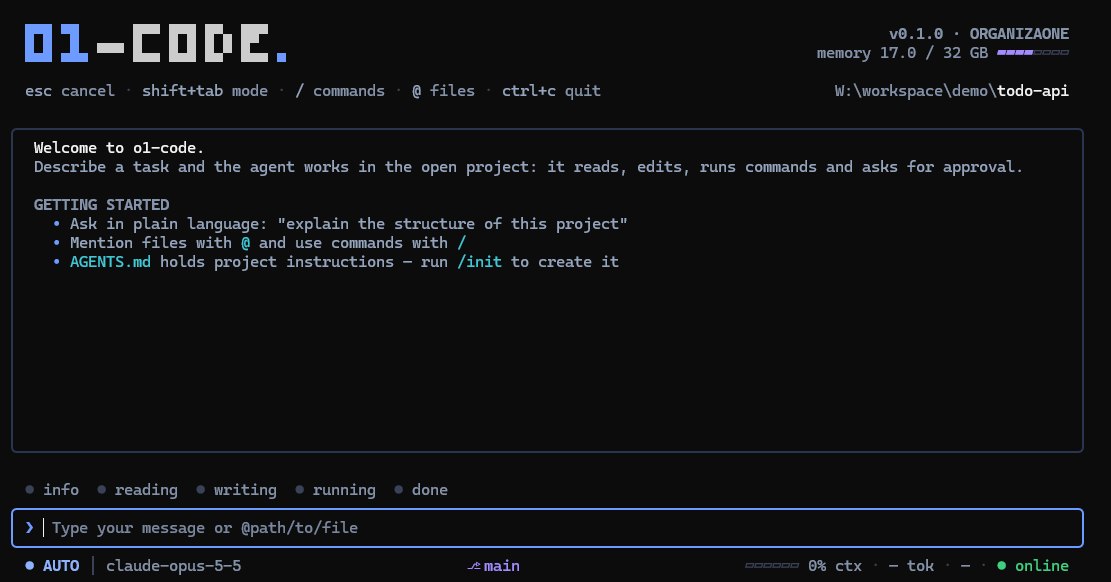
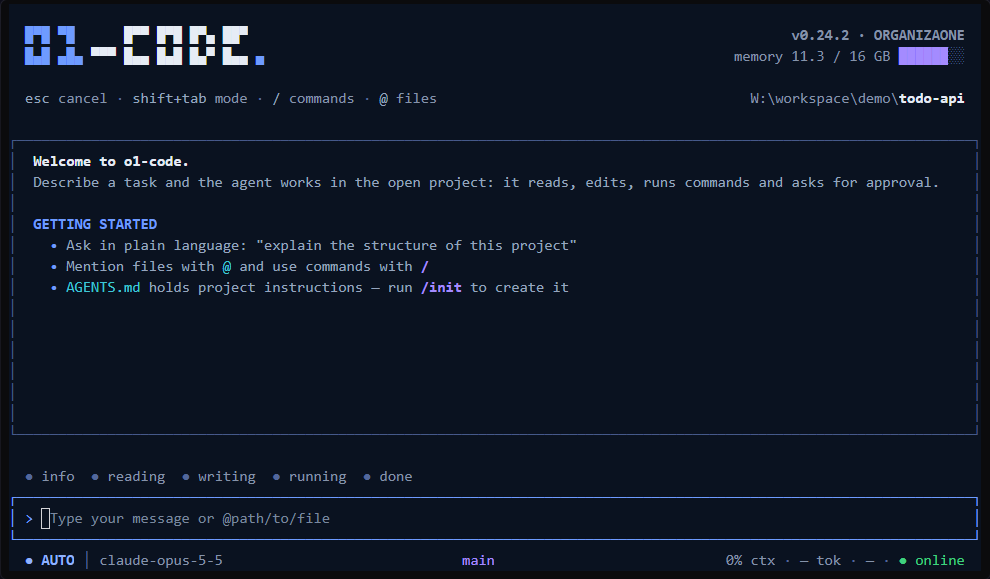
fix(telemetry): count hosted sessions at their first prompt (#149)
Released as 0.24.3.

A process that hosts sessions over ACP, an editor or a child of the
serve daemon, counted a session for its bootstrap and MCP discovery
configurations and for every session it opened, used or not. Its
sessions are now counted at their first prompt.

The Web Shell gains the alias and the Chinese text of the error reports
setting, and the settings dialog lists it after usage statistics.

The interface captures under docs/images are removed, with their
references, and the README start screen is captured again from 0.24.2.
The roadmap drops the application update and Windows release validation
sections, both validated, and records the telemetry gaps that remain.

diff --git a/packages/core/src/telemetry/product/product-telemetry.test.ts b/packages/core/src/telemetry/product/product-telemetry.test.ts
@@ -84,7 +84,7 @@ describe('product telemetry', () => {
     startProductTelemetry(config, { manual: true, install: () => 'npm' });
     const usage = productUsage(config)!;
     usage.session(config);
-    usage.prompt();
+    usage.prompt(config);
     usage.toolCall('read_file', 'native');
     usage.toolCall('mcp__server__secret_tool', 'mcp');
     usage.slashCommand('model', true);
@@ -126,7 +126,7 @@ describe('product telemetry', () => {
   it('sends usage at most hourly across sessions', async () => {
     const config = fakeConfig();
     startProductTelemetry(config, { manual: true });
-    productUsage(config)!.prompt();
+    productUsage(config)!.prompt(config);
     const now = new Date();
     await sendProductTelemetry(now);
     await sendProductTelemetry(new Date(now.getTime() + 30 * 60 * 1000));
@@ -139,7 +139,7 @@ describe('product telemetry', () => {
     fetchMock.mockRejectedValueOnce(new Error('offline'));
     const config = fakeConfig();
     startProductTelemetry(config, { manual: true });
-    productUsage(config)!.prompt();
+    productUsage(config)!.prompt(config);
     await sendProductTelemetry();
     await sendProductTelemetry();
     expect(bodies<UsagePayload>('usage').at(-1)!.days[0]!.prompts).toBe(1);
@@ -153,7 +153,7 @@ describe('product telemetry', () => {
     undiciFetch.mockResolvedValueOnce(new Response(null, { status: 204 }));
     const config = fakeConfig({ errors: false });
     startProductTelemetry(config, { manual: true });
-    productUsage(config)!.prompt();
+    productUsage(config)!.prompt(config);
     await sendProductTelemetry();
 
     expect(undiciFetch).toHaveBeenCalledWith(
@@ -190,7 +190,7 @@ describe('product telemetry', () => {
       }
       const config = tunnelConfig();
       startProductTelemetry(config, { manual: true });
-      productUsage(config)!.prompt();
+      productUsage(config)!.prompt(config);
       await sendProductTelemetry();
       return fetchMock.mock.calls.map(([url, init]) => ({
         url: String(url),
@@ -225,11 +225,38 @@ describe('product telemetry', () => {
     });
   });
 
+  it('counts the sessions of an ACP host at their first prompt', async () => {
+    const hosted = (sessionId: string): Config =>
+      ({
+        ...fakeConfig({ errors: false }),
+        isInteractive: () => false,
+        getExperimentalZedIntegration: () => true,
+        getSessionId: () => sessionId,
+      }) as unknown as Config;
+    const bootstrap = hosted('bootstrap');
+    startProductTelemetry(bootstrap, { manual: true });
+    const usage = productUsage(bootstrap)!;
+    // Configurations that hold no conversation, and a session nobody used.
+    usage.session(bootstrap);
+    usage.session(hosted('workspace-mcp-discovery'));
+    usage.session(hosted('opened-only'));
+    usage.prompt(hosted('first'));
+    usage.prompt(hosted('first'));
+    usage.prompt(hosted('second'));
+    await sendProductTelemetry();
+
+    const [payload] = bodies<UsagePayload>('usage');
+    expect(payload!.days[0]).toMatchObject({
+      sessions: { interactive: 0, headless: 0, sdk: 2 },
+      prompts: 3,
+    });
+  });
+
   it('does not retry an ordinary network failure', async () => {
     fetchMock.mockRejectedValueOnce(new Error('offline'));
     const config = fakeConfig({ errors: false });
     startProductTelemetry(config, { manual: true });
-    productUsage(config)!.prompt();
+    productUsage(config)!.prompt(config);
     await sendProductTelemetry();
     expect(undiciFetch).not.toHaveBeenCalled();
   });

diff --git a/packages/core/src/telemetry/product/product-telemetry.ts b/packages/core/src/telemetry/product/product-telemetry.ts
@@ -211,19 +211,42 @@ export function productUsage(config: Config): ProductUsageRecorder | undefined {
   return recorder;
 }
 
+/** Session IDs remembered per process, so a long-lived host stays bounded. */
+const MAX_HOSTED_SESSIONS = 10_000;
+
 class ProductUsageRecorder {
+  /** Sessions of an ACP host already counted, by ID. */
+  private readonly hostedSessions = new Set<string>();
+
   session(config: Config): void {
+    // An ACP host (an editor, `serve`) initializes configurations that hold
+    // no conversation, and opens sessions before anyone uses them; its
+    // sessions are counted at their first prompt instead.
+    if (config.getExperimentalZedIntegration()) return;
     const mode: SessionMode = config.isInteractive()
       ? 'interactive'
-      : config.getInputFormat() === 'stream-json' ||
-          config.getExperimentalZedIntegration()
+      : config.getInputFormat() === 'stream-json'
         ? 'sdk'
         : 'headless';
     state?.ledger.session(mode);
   }
 
-  prompt(): void {
+  prompt(config: Config): void {
+    if (config.getExperimentalZedIntegration()) {
+      const sessionId = config.getSessionId();
+      if (
+        !this.hostedSessions.has(sessionId) &&
+        this.hostedSessions.size < MAX_HOSTED_SESSIONS
+      ) {
+        this.hostedSessions.add(sessionId);
+        state?.ledger.session('sdk');
+      }
+    }
     state?.ledger.prompt();
+  }
+
+  forgetHostedSessions(): void {
+    this.hostedSessions.clear();
   }
 
   toolCall(name: string, type: 'native' | 'mcp' | undefined): void {
@@ -545,4 +568,5 @@ export function resetProductTelemetryForTesting(): void {
   if (state?.timer) clearInterval(state.timer);
   state = undefined;
   errorReporting = undefined;
+  recorder.forgetHostedSessions();
 }

diff --git a/packages/web-shell/client/i18n.tsx b/packages/web-shell/client/i18n.tsx
@@ -7171,7 +7171,11 @@ const ZH: Messages = {
   'settings.description.ui.shellOutputMaxLines':
     '内联显示的 shell 输出最大行数。设为 0 可取消限制并显示完整输出；隐藏行数仍会通过 +N lines 指示器展示。',
   'settings.label.privacy.usageStatisticsEnabled': '启用使用统计',
-  'settings.description.privacy.usageStatisticsEnabled': '启用使用统计收集。',
+  'settings.description.privacy.usageStatisticsEnabled':
+    '向 OrganizaOne 发送匿名使用指标（版本、系统、会话和命令计数）。绝不包含代码、提示词或文件内容。',
+  'settings.label.privacy.errorReportsEnabled': '发送错误报告',
+  'settings.description.privacy.errorReportsEnabled':
+    '向 OrganizaOne 发送应用自身崩溃的报告，其中的路径和个人数据已被移除。',
   'settings.label.fastModel': '快速模型',
   'settings.description.fastModel':
     '用于生成提示建议和推测执行的模型。留空则使用主模型。较小/更快的模型（例如 qwen3-coder-flash）可以降低延迟和成本。',

diff --git a/packages/web-shell/client/settings.test.ts b/packages/web-shell/client/settings.test.ts
@@ -243,6 +243,7 @@ describe('settings presentation aliases', () => {
       'setting:tool-call-details': 'ui.showToolCallDetails',
       'setting:shell-output-limit': 'ui.shellOutputMaxLines',
       'setting:usage-statistics': 'privacy.usageStatisticsEnabled',
+      'setting:error-reports': 'privacy.errorReportsEnabled',
       'setting:fast-model': 'fastModel',
       'setting:advisor-model': 'advisorModel',
       'setting:vision-model': 'visionModel',

diff --git a/packages/web-shell/client/settings.ts b/packages/web-shell/client/settings.ts
@@ -25,6 +25,7 @@ const SETTING_KEYS = {
   'setting:tool-call-details': 'ui.showToolCallDetails',
   'setting:shell-output-limit': 'ui.shellOutputMaxLines',
   'setting:usage-statistics': 'privacy.usageStatisticsEnabled',
+  'setting:error-reports': 'privacy.errorReportsEnabled',
   'setting:fast-model': 'fastModel',
   'setting:advisor-model': 'advisorModel',
   'setting:vision-model': 'visionModel',

diff --git a/packages/core/src/telemetry/loggers.ts b/packages/core/src/telemetry/loggers.ts
@@ -257,7 +257,7 @@ export function logSessionEnd(config: Config): void {
 
 export function logUserPrompt(config: Config, event: UserPromptEvent): void {
   O1CodeLogger.getInstance(config)?.logNewPromptEvent(event);
-  productUsage(config)?.prompt();
+  productUsage(config)?.prompt(config);
   if (!isTelemetrySdkInitialized()) return;
 
   const attributes: LogAttributes = {

diff --git a/packages/cli/src/config/settingsUtils.ts b/packages/cli/src/config/settingsUtils.ts
@@ -201,6 +201,7 @@ const SETTINGS_DIALOG_ORDER: readonly string[] = [
 
   // Privacy
   'privacy.usageStatisticsEnabled',
+  'privacy.errorReportsEnabled',
 ] as const;
 
 export const MAX_SETTING_STRING_VALUE_LENGTH = 1024;

diff --git a/ROADMAP.md b/ROADMAP.md
@@ -30,16 +30,6 @@ the release workflow publishes the npm package and GitHub release only.
 
 In this order.
 
-### Application updates
-
-[Issue #128](https://github.com/organizaone/o1-code/issues/128) covers the idle update dialog,
-verified npm preparation and explicit restart with saved conversation and approval mode. Fresh
-launches select the updated payload while existing conversations retain their runtime. Legacy
-session controllers remain alive and updated clients use direct sessions until they exit.
-The [update architecture and regression procedure](docs/developers/application-updates.md) records
-the installation, cache, file-lock and Node-manager contracts. Native Windows 10/x64 and corporate
-endpoint policies remain outside the completed Windows 11 ARM64/x64-emulation validation.
-
 ### Remaining Windows process helpers
 
 Windows sleep requests, browser opening and clipboard reads use optional native bindings to Windows
@@ -58,49 +48,7 @@ fixed helpers remain until equivalent native behavior is demonstrated in support
 
 Explicit PowerShell agent/hook selections and saved custom status commands remain supported.
 Build-time Windows archive creation may still use fixed PowerShell helpers; it is separate from
-the installed updater. Functional validation on ARM64 or x64 emulation does not establish native
-Windows 10 x64 compatibility or compatibility with a corporate endpoint security policy.
-
-### Windows release validation
-
-The Windows execution changes have been exercised in the O1-Code Parallels guest on Windows 11
-ARM64, including x64 Node under emulation. Installed npm and standalone packages acquired and
-released native power requests without a PowerShell subprocess. Native Windows 10 x64 and
-corporate endpoint-policy validation are deferred outside this task's acceptance scope.
-
-Headless local-provider runs with Node 24.18.0 in this guest return the response and then fail at
-shutdown with Node's `UV_HANDLE_CLOSING` assertion. The same failure reproduces with the pre-change
-bundle and with optional native dependencies omitted; the matching x64 cases exit normally with
-Node 22.23.3. Updating the guest through Scoop to Node 24.22.0 also restored clean headless
-shutdown across the installed 0.19.2 shell/npm fixtures and native power probe, without a product
-delay or exit workaround. Retain the older
-runtime failure as regression evidence; a successful response alone does not establish a clean exit.
-PowerShell discovery allows
-ten seconds for startup after two-second probes rejected a runnable installation in the guest.
-Git Bash retains normal MSYS native argument conversion, so `/flag` can become a path. Local
-Windows Bash guidance and the smoke runner cover per-command `MSYS_NO_PATHCONV=1`; no global
-conversion override is introduced. The runner also accepts a PowerShell 7 executable or its
-registered Store alias. Test isolation preserves startup `USERPROFILE`, since changing it can
-cause Store activation to fail even when the executable itself is runnable.
-
-Core and terminal regression tests cover interrupted shell output in cancellation history,
-paired tool responses after Esc, discarded completed outputs, and no automatic continuation.
-Store discovery tests cover canonical package executables and workspace/module junction
-exclusions. Installed 0.19.1 guest checks on Node 22 x64 confirmed registered Store alias and
-type-only PowerShell 7 selection, scoped MSYS argument preservation, and Esc cancellation with
-retained output and terminated fixture descendants in Bash, PowerShell 5.1 and PowerShell 7.6.7.
-The native power acquire/release checks also exited cleanly. Dedicated installed-artifact fixtures
-confirmed npm.cmd execution in all four shells and UNC working directories in PowerShell 5.1/7
-and Git Bash with relative file arguments. Absolute Windows UNC arguments in Bash can acquire a
-duplicated server/share prefix even with scoped MSYS conversion suppression; prefer relative paths.
-CMD silently replaces UNC working directories with the Windows directory, so the execution service
-now rejects those launches before PTY initialization or process creation, including structured CMD
-launches.
-
-Actual idle suspension could not be compared in this VM: a three-minute control without the CLI,
-with temporarily reduced AC idle timeouts, remained Active in SleepStudy because Parallels Tools
-held DISPLAY and SYSTEM requests. The original AC/DC settings were restored and verified. Native
-API success establishes request acquisition/release, not physical sleep prevention in this setup.
+the installed updater.
 
 ### Connect a provider: the new login
 
@@ -172,8 +120,7 @@ Decisions so far.
   Evidence: `PluginSettingsView.test.tsx` checks scoped editing and secret privacy;
   `SourcesTab.test.tsx` checks bounded editors, pending/stale requests and retained
   actions; core extension settings/manager/registry tests check exact persistence
-  and failed replacements. Real application captures are in
-  `docs/images/tui-plugin-settings.png` and `docs/images/tui-marketplace-source-edit.png`.
+  and failed replacements.
 
 ### Unscheduled
 
@@ -195,6 +142,16 @@ Decisions so far.
   (a 50 ms budget) and `code-mode.test.ts`, Web Shell `BranchPickerPopover` (focus after a
   workspace switch); `acp-http/transport.test.ts` can leave an unhandled `fetch failed` under load.
   CI runs the full suites only on demand.
+- Model requests, the update check and the other outbound requests do not read the operating
+  system's certificate store. On a network whose certificate chain ends in a CA installed only
+  there, they fail until `NODE_EXTRA_CA_CERTS` names it; only product telemetry and the o1-connect
+  tunnel read the system store.
+- Product telemetry through the o1-connect tunnel is not accepted by the gateway yet, so the client
+  always falls back to the direct intake.
+- The `o1-code serve` daemon records no crash report of its own; only its session processes do.
+  It has no `Config`, so error reporting would need a start that takes the setting and the version.
+- `O1CodeLogger` (`packages/core/src/telemetry/o1-code-logger/`) still builds and queues events
+  that are never sent. Removing it touches about fifty call sites in `telemetry/loggers.ts`.
 - `integration-tests/globalSetup.test.ts` times out outside the integration environment.
 - The Web Shell e2e smoke needs WebKit installed; its shell-card clipboard check compares text that
   differs only in line endings on Windows.

diff --git a/docs/guides/TUI-DESIGN.md b/docs/guides/TUI-DESIGN.md
@@ -317,9 +317,6 @@ of the status rows right above the input.
   Incremental text pastes show a spinner and the number of received KB in the
   same area; the footer keeps its model and usage zones visible.
 
-Real application captures: [attachment preparation](../images/tui-attachment-preparation.png)
-and [ready attachment](../images/tui-attachment-ready.png).
-
 ### Footer
 
 Three zones spread across the width (`footer-zones.tsx`):
@@ -414,12 +411,6 @@ never leaves; it only shortens from the start.
   saved transcript, validate the launcher, and recheck idle state and the pending restart choice. Keep the
   current approval mode and execution options; an empty new conversation retains its session ID
   without requesting a nonexistent transcript.
-
-  ![Installed application with a prepared update and explicit restart choices](../images/tui-application-update.png)
-
-  ![Update version and both actions visible in a 60 by 12 terminal](../images/tui-application-update-compact.png)
-
-  These captures come from the real macOS application with controlled registry and provider responses.
 
 - **Agent sessions** (`agent-view/session-dashboard.ts`): `/agents` (alias
   `/sessions`) is a full-screen terminal controller view. Open it with the command
@@ -572,8 +563,6 @@ never leaves; it only shortens from the start.
   existing five-entry preview. Pending edits retain keyboard ownership through
   persistence and detail refresh, and obsolete responses cannot replace a newer
   selection.
-  Real application captures: [plugin settings](../images/tui-plugin-settings.png)
-  and [private marketplace editing](../images/tui-marketplace-source-edit.png).
 - **Slash/@ suggestions:** name in a 28-column column, detail in muted, footer
   `↑↓ navigate · tab complete · enter select · esc close`. Lists filter on every key.
 - **Plugin choices** (`components/PluginChoicePrompt.tsx`): the dialog receives its available

diff --git a/docs/developers/product-telemetry.md b/docs/developers/product-telemetry.md
@@ -26,6 +26,11 @@ is a separate, opt-in export to the user's own collector and is not involved.
   neither read nor created for them.
 - Each process counts its usage per **local** day and writes it to
   `~/.o1-code/telemetry/usage/<day>.<process>.json`; the sender sums the files of a day.
+- A terminal or headless run counts one session when it starts. A process that hosts sessions over
+  ACP (an editor, or a child of `o1-code serve`) counts each session as `sdk` at its first prompt,
+  since such a host opens sessions, and configurations that hold no conversation, before anyone
+  uses them. The `serve` daemon itself counts nothing and records no crash of its own; its children
+  do both.
 - Ten seconds after startup and then every 15 minutes, a session sends. Usage goes at most once an
   hour per installation (`~/.o1-code/telemetry/state.json`), with every day of the last 31 that has
   data, today's partial totals included. Once accepted, the files of finished days are deleted; a

diff --git a/docs/users/configuration/settings.md b/docs/users/configuration/settings.md
@@ -428,8 +428,6 @@ SystemDefaults, and System settings. Workspace settings cannot select the
 agent's executable. Existing `tools.shell` options, including PTY, pager and
 timeout settings, remain independent.
 
-![Agent shell selection in the settings dialog](../../images/tui-agent-shell-settings.png)
-
 Automatic discovery excludes executables inside the current workspace, including
 paths reached through junctions. If your shell installation is under that
 directory (for example, Scoop when the workspace is your whole home directory),

diff --git a/CHANGELOG.md b/CHANGELOG.md
@@ -7,6 +7,13 @@ follows [Semantic Versioning](https://semver.org/spec/v2.0.0.html).
 
 ## [Unreleased]
 
+## [0.24.3] - 2026-11-13
+
+### Fixed
+
+- Sessions hosted by an editor or by `o1-code serve` are no longer counted more than once in usage
+  metrics.
+
 ## [0.24.2] - 2026-11-10
 
 ### Fixed
